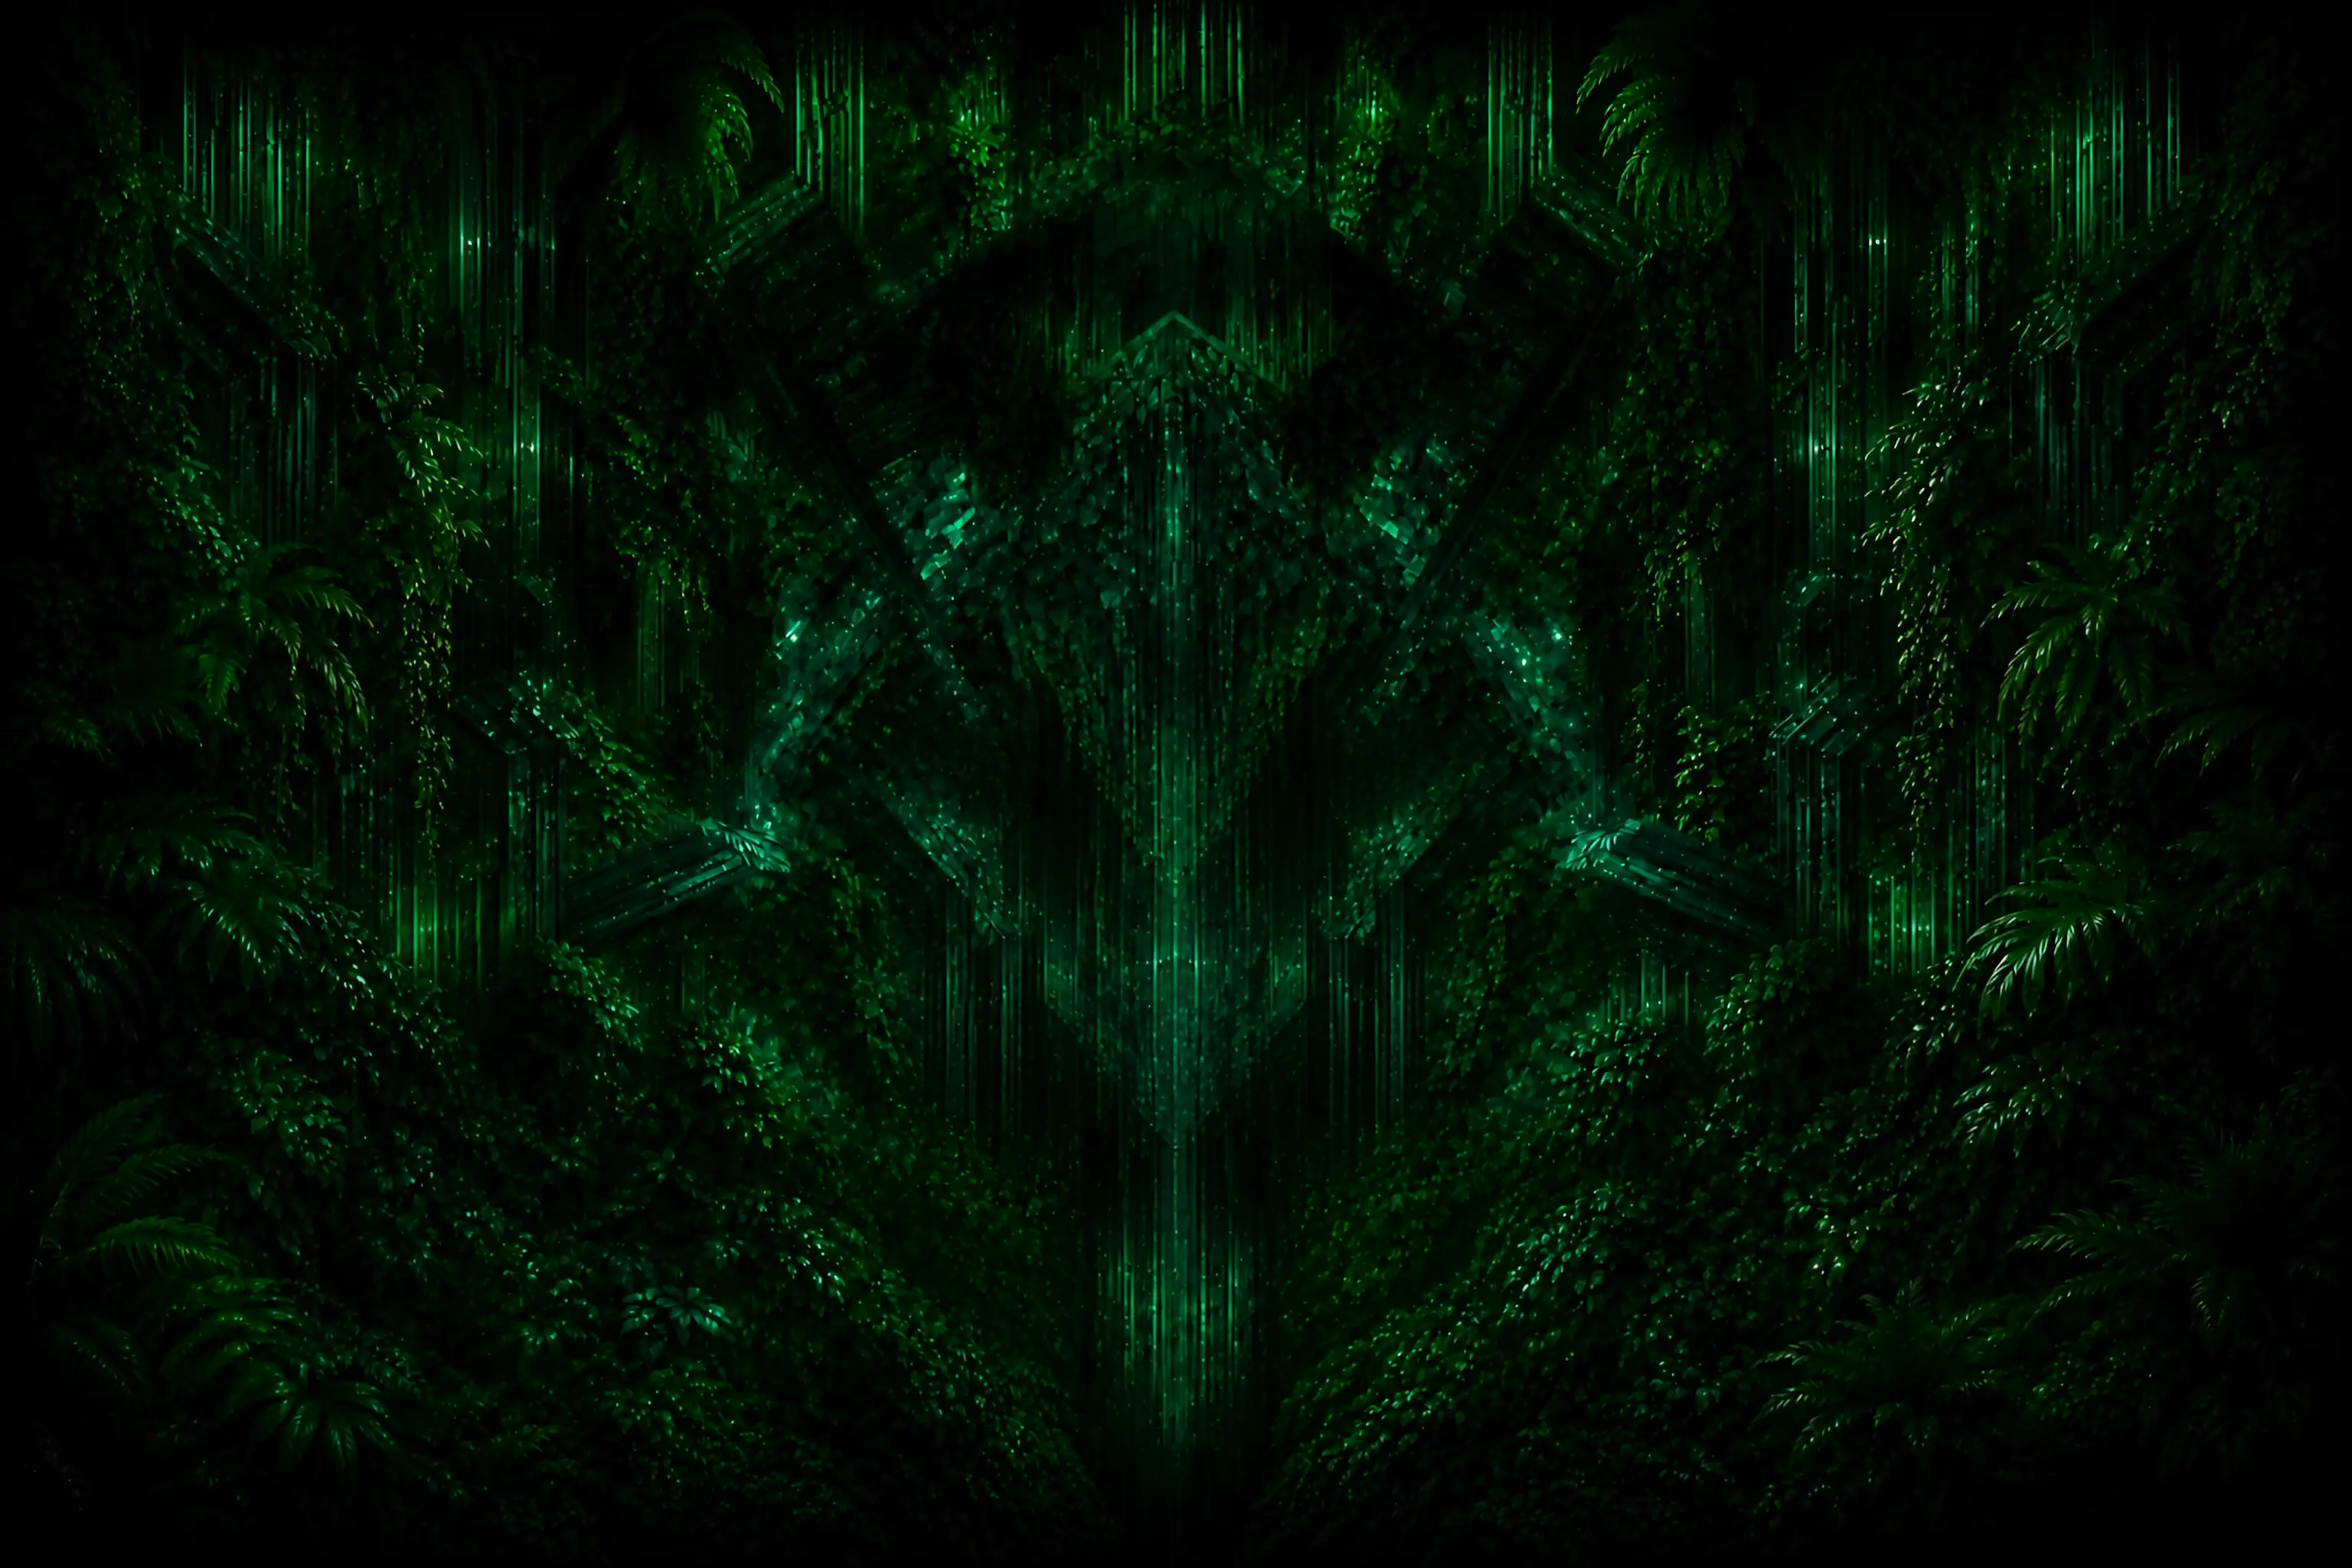
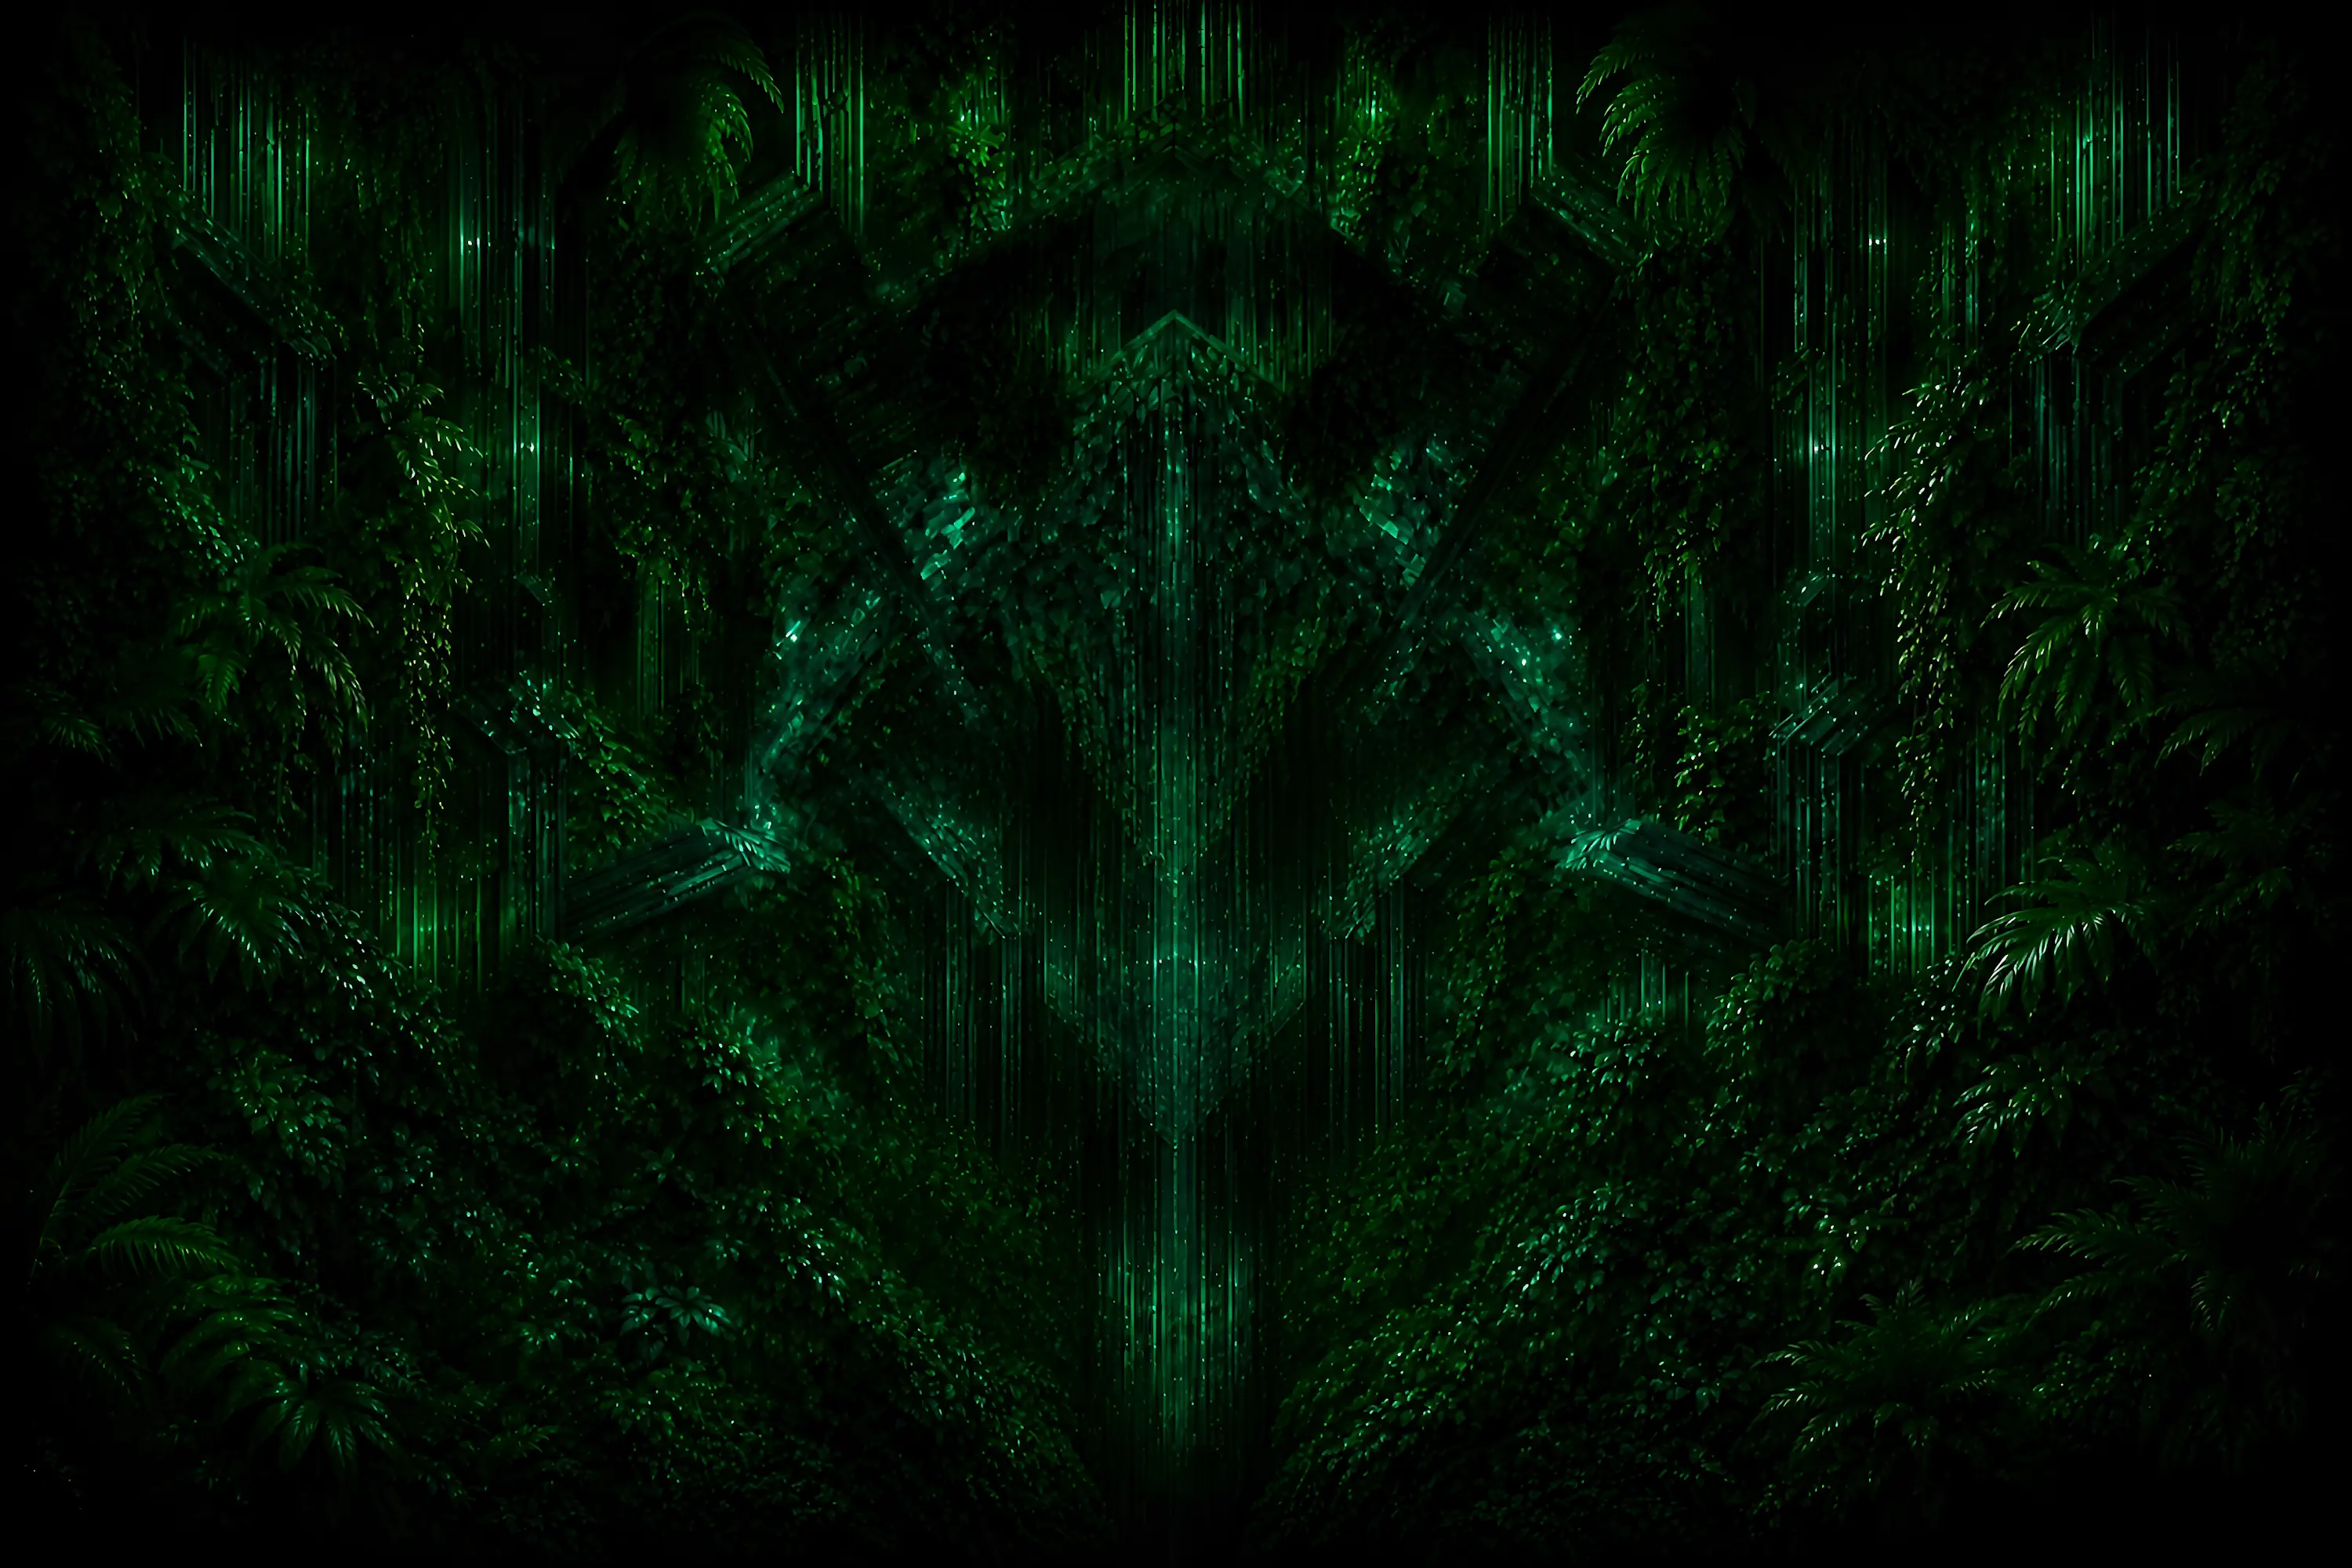
restyling 6

Changed region(s): [[0.868, 0.093, 0.899, 0.124], [0.837, 0.589, 0.868, 0.62]]

diff --git a/components/Preview/MagicForestPortal.tsx b/components/Preview/MagicForestPortal.tsx
@@ -1,26 +1,29 @@
 "use client";
 
-import { useEffect, useRef } from "react";
+import { useEffect, useRef, useState } from "react";
+import Image from "next/image";
 import styles from "./MagicForestPortal.module.css";
+import secondaryPreview36 from "../../images/secondary_preview_36.webp";
 
 const LINES_COUNT = 15;
 const RINGS_COUNT = 12;
 
-interface MagicForestPortalProps {
-  showRings?: boolean;
-}
-
-export const MagicForestPortal = ({ showRings = false }: MagicForestPortalProps) => {
+export const MagicForestPortal = () => {
   const backgroundRef = useRef<HTMLDivElement>(null);
   const overlayRef = useRef<HTMLDivElement>(null);
+  const secondaryBgRef = useRef<HTMLDivElement>(null);
+  const ringsWrapperRef = useRef<HTMLDivElement>(null);
   const ringsArray = Array.from({ length: RINGS_COUNT });
   const linesArray = Array.from({ length: LINES_COUNT });
+  const [forestLoaded, setForestLoaded] = useState(false);
 
   useEffect(() => {
     console.log("MagicForestPortal mounted");
 
     const backgroundEl = backgroundRef.current;
     const overlayEl = overlayRef.current;
+    const secondaryBgEl = secondaryBgRef.current;
+    const ringsWrapperEl = ringsWrapperRef.current;
 
     const updateProgress = () => {
       const scrollTop = window.scrollY || document.documentElement.scrollTop || document.body.scrollTop;
@@ -33,6 +36,13 @@ export const MagicForestPortal = ({ showRings = false }: MagicForestPortalProps)
       }
       if (overlayEl) {
         overlayEl.style.opacity = (progress * 0.2).toString();
+      }
+      if (secondaryBgEl) {
+        secondaryBgEl.style.opacity = progress.toString();
+      }
+      if (ringsWrapperEl) {
+        // Rings fade out as secondary background fades in
+        ringsWrapperEl.style.opacity = (1 - progress).toString();
       }
     };
 
@@ -59,11 +69,47 @@ export const MagicForestPortal = ({ showRings = false }: MagicForestPortalProps)
     };
   }, []);
 
+  // Track forest.webp loading
+  useEffect(() => {
+    const img = new window.Image();
+    img.src = "/images/forest.webp";
+
+    const handleLoad = () => {
+      setForestLoaded(true);
+    };
+
+    img.onload = handleLoad;
+
+    // Fallback: if already cached or loaded
+    if (img.complete) {
+      handleLoad();
+    }
+
+    // Ultimate fallback: show rings after 1 second regardless
+    const fallbackTimer = setTimeout(() => {
+      setForestLoaded(true);
+    }, 1000);
+
+    return () => {
+      clearTimeout(fallbackTimer);
+    };
+  }, []);
+
   return (
     <>
       {/* Fixed background - always shown */}
       <div className={styles.fixedBackground}>
         <div ref={backgroundRef} className={styles.background} />
+        {/* Secondary background that fades in on scroll */}
+        <div ref={secondaryBgRef} className={styles.secondaryBackground}>
+          <Image
+            src={secondaryPreview36}
+            alt="secondary background"
+            fill
+            priority
+            className={styles.secondaryBackgroundImage}
+          />
+        </div>
         {/* Dark overlay on scroll */}
         <div ref={overlayRef} className={styles.scrollOverlay} />
         <div className={styles.linesLayer}>
@@ -89,9 +135,9 @@ export const MagicForestPortal = ({ showRings = false }: MagicForestPortalProps)
         </div>
       </div>
 
-      {/* Portal rings - only on Preview page, not fixed */}
-      {showRings && (
-        <div className={styles.portalWrapper}>
+      {/* Portal rings */}
+      {forestLoaded && (
+        <div ref={ringsWrapperRef} className={styles.portalWrapper}>
           <svg className={styles.rings} viewBox="0 0 600 600">
             {ringsArray.map((_, i) => {
               const isReverse = i % 3 === 0;

diff --git a/components/Preview/MagicForestPortal.module.css b/components/Preview/MagicForestPortal.module.css
@@ -12,7 +12,7 @@
 .background {
   position: absolute;
   inset: 0;
-  background-image: url("../../images/forest.png");
+  background-image: url("../../images/forest.webp");
   background-size: cover;
   background-position: center;
   transform: scale(1.00);
@@ -22,6 +22,25 @@
     saturate(calc(1 - var(--scroll-progress, 0.2) * 0.4));
   transition: filter 0.1s linear;
   will-change: transform, filter;
+  z-index: 1;
+}
+
+/* Secondary background - fades in on scroll */
+.secondaryBackground {
+  position: absolute;
+  inset: 0;
+  opacity: 0;
+  transition: opacity 0.1s linear;
+  will-change: opacity;
+  z-index: 2;
+  overflow: hidden;
+}
+
+.secondaryBackgroundImage {
+  object-fit: cover;
+  object-position: center;
+  transform: scale(1.00);
+  animation: forestBreath 16s ease-in-out infinite;
 }
 
 @keyframes forestBreath {
@@ -42,9 +61,9 @@
   transition: opacity 0.1s linear;
 }
 
-/* Portal wrapper - positioned relative to Preview section */
+/* Portal wrapper - fixed position like forest background */
 .portalWrapper {
-  position: absolute;
+  position: fixed;
   left: 50%;
   top: 50%;
   width: 500px;
@@ -55,6 +74,9 @@
   justify-content: center;
   z-index: 1;
   pointer-events: none;
+  opacity: 1;
+  transition: opacity 0.1s linear;
+  will-change: opacity;
 }
 
 /* Ambient glow around portal */

diff --git a/components/Footer/Footer.jsx b/components/Footer/Footer.jsx
@@ -30,11 +30,11 @@ export function Footer() {
     <footer className={styles.footer}>
       <div className={styles.container}>
         <div className={styles.logo__container}>
-          <Image
+          {/* <Image
             className={styles.logo}
             src={theme === "light" ? logoLight : logoDark}
             alt="Company Logo"
-          />
+          /> */}
           <ul className={styles.social__list}>
             <li>
               <span className={styles.social__link} style={disabledLinkStyle}>

diff --git a/components/Preview/Preview.jsx b/components/Preview/Preview.jsx
@@ -40,7 +40,7 @@ export const Preview = () => {
 
   return (
     <section className={styles.preview} id="lol">
-      <MagicForestPortal showRings />
+      <MagicForestPortal />
       <Image
         src={secondaryPreviewImage}
         alt="portal overlay"